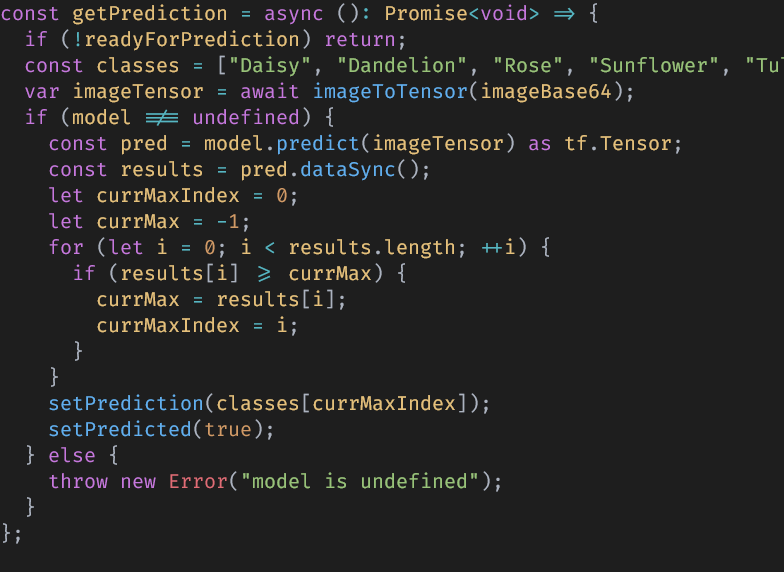
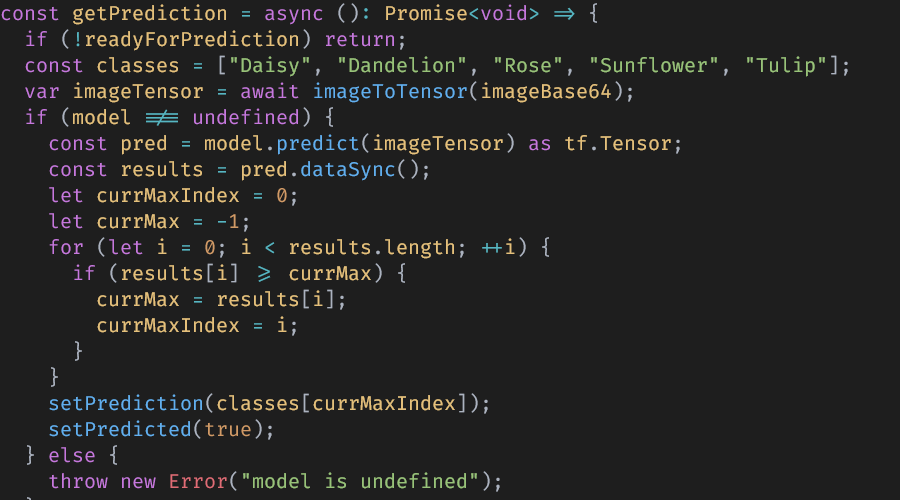
bigger window size

diff --git a/index.js b/index.js
@@ -19,7 +19,6 @@ ${styles.text}
 </head><body><pre>`}${text}</pre></body></html>`;
 
 app.post('/', (req, res) => {
-  console.log(req.body);
   const code = req.body.text;
   const inputHtml = addSurround(prism.highlight(code, prism.languages.javascript, 'javascript'));
   nodeHtmlToImage({
@@ -33,6 +32,5 @@ app.post('/', (req, res) => {
 const server = app.listen(8000, () => {
   // const host = server.address().address;
   const { port } = server.address();
-
   console.log(`Express app listening at http://localhost:${port}`);
 });

diff --git a/style.js b/style.js
@@ -12,6 +12,9 @@ pre {
 body {
   background-color: #1e1e1e;
   color: #e5c07b;
+
+  width: 1200px;
+  height: 800px;
 }
 
 code[class*="language-"],
